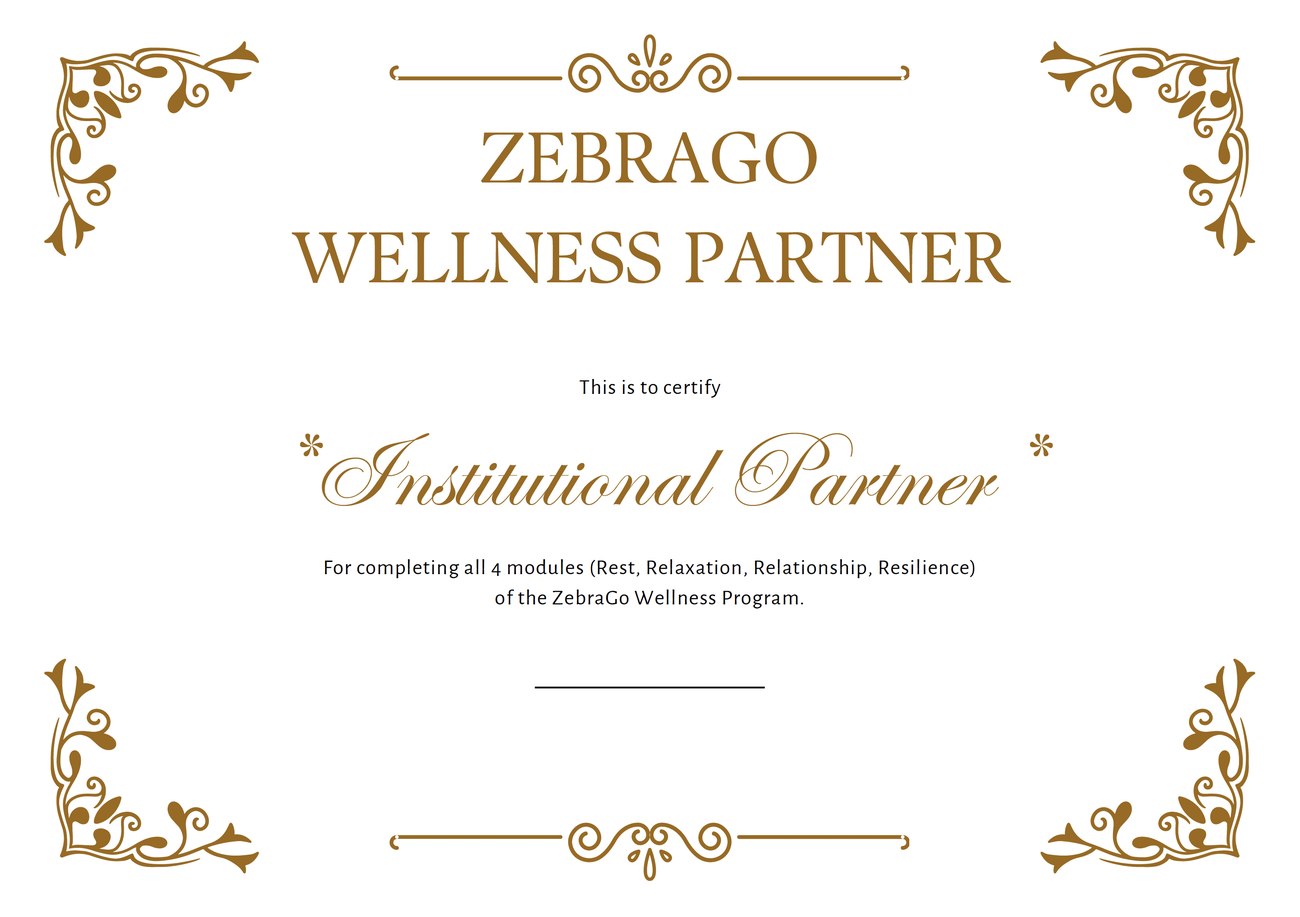
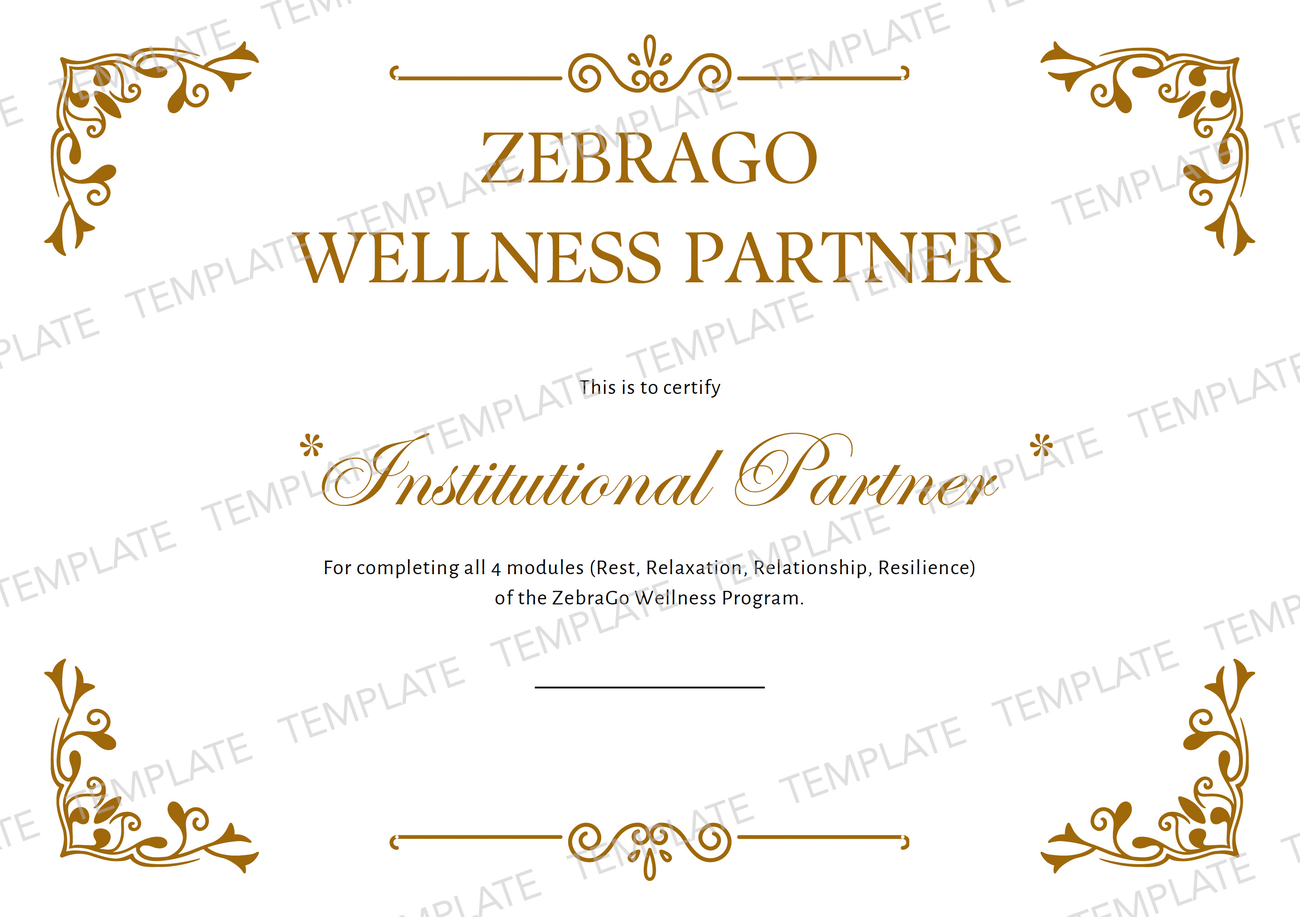
added translation added template watermark to cert

diff --git a/pages/corporate.html b/pages/corporate.html
@@ -95,8 +95,8 @@
                 <div class="container">
                     <div class="individual-hero-content">
                         <h1 class="individual-hero-page-title" data-lang="nav.corporate">企業服務</h1>
-                        <h2 class="individual-hero-title">成為 ZebraGo 企業身心靈夥伴 (Wellness Partner)</h2>
-                        <p class="individual-hero-subtitle">結合流動科技與專業治療，助您實踐 ESG 職業健康指標，打造具抗逆力的幸福職場。</p>
+                        <h2 class="individual-hero-title" data-lang="corporate.hero.title">成為 ZebraGo 企業身心靈夥伴 (Wellness Partner)</h2>
+                        <p class="individual-hero-subtitle" data-lang="corporate.hero.subtitle">結合流動科技與專業治療，助您實踐 ESG 職業健康指標，打造具抗逆力的幸福職場。</p>
                     </div>
                 </div>
             </div>
@@ -105,32 +105,32 @@
         <!-- Section 1: Why Choose Us - ESG and Corporate Sustainability -->
         <section class="individual-why-section">
             <div class="container">
-                <h2 class="section-title">超越福利，更是企業永續的關鍵</h2>
-                <p class="section-intro">在現今的商業環境，員工的身心健康是企業最大的資產。ZebraGo 提供全港首創的流動身心支援，協助企業直接回應港交所 ESG 報告指引 (HKEX ESG Reporting Guide) 中關於「層面 B2：健康與安全」的要求。</p>
+                <h2 class="section-title" data-lang="corporate.why.title">超越福利，更是企業永續的關鍵</h2>
+                <p class="section-intro" data-lang="corporate.why.intro">在現今的商業環境，員工的身心健康是企業最大的資產。ZebraGo 提供全港首創的流動身心支援，協助企業直接回應港交所 ESG 報告指引 (HKEX ESG Reporting Guide) 中關於「層面 B2：健康與安全」的要求。</p>
                 
                 <div class="why-benefits-grid">
                     <div class="why-benefit-card">
                         <div class="why-benefit-icon">
                             <img src="../images/Services/Corporate/gauge.png" alt="滿足 KPI">
                         </div>
-                        <h3 class="why-benefit-title">滿足 KPI B2.3 指標</h3>
-                        <p class="why-benefit-description">透過我們系統化的課程與活動，具體描述及執行職業健康與安全措施。</p>
+                        <h3 class="why-benefit-title" data-lang="corporate.why.kpi.title">滿足 KPI B2.3 指標</h3>
+                        <p class="why-benefit-description" data-lang="corporate.why.kpi.desc">透過我們系統化的課程與活動，具體描述及執行職業健康與安全措施。</p>
                     </div>
                     
                     <div class="why-benefit-card">
                         <div class="why-benefit-icon">
                             <img src="../images/Services/Corporate/businessman.png" alt="提升僱主品牌">
                         </div>
-                        <h3 class="why-benefit-title">提升僱主品牌</h3>
-                        <p class="why-benefit-description">獲得「ZebraGo Wellness Partner」認證，展現企業對員工的承擔。</p>
+                        <h3 class="why-benefit-title" data-lang="corporate.why.brand.title">提升僱主品牌</h3>
+                        <p class="why-benefit-description" data-lang="corporate.why.brand.desc">獲得「ZebraGo Wellness Partner」認證，展現企業對員工的承擔。</p>
                     </div>
                     
                     <div class="why-benefit-card">
                         <div class="why-benefit-icon">
                             <img src="../images/Services/Corporate/back-in-time.png" alt="靈活流動體驗">
                         </div>
-                        <h3 class="why-benefit-title">靈活流動體驗</h3>
-                        <p class="why-benefit-description">無需騰出固定辦公空間，ZebraGo 流動車直接駛達，提供即時支援。</p>
+                        <h3 class="why-benefit-title" data-lang="corporate.why.flexible.title">靈活流動體驗</h3>
+                        <p class="why-benefit-description" data-lang="corporate.why.flexible.desc">無需騰出固定辦公空間，ZebraGo 流動車直接駛達，提供即時支援。</p>
                     </div>
                 </div>
             </div>
@@ -139,8 +139,8 @@
         <!-- Section 2: ZebraGo Corporate Wellness Partner Program -->
         <section class="individual-training-section">
             <div class="container">
-                <h2 class="section-title">模組化認證計劃 —— 4R 全方位支援</h2>
-                <p class="section-intro">企業可根據需求選擇單一模組，或完成全套 4R 系列以獲得年度認證夥伴資格。</p>
+                <h2 class="section-title" data-lang="corporate.program.title">模組化認證計劃 —— 4R 全方位支援</h2>
+                <p class="section-intro" data-lang="corporate.program.intro">企業可根據需求選擇單一模組，或完成全套 4R 系列以獲得年度認證夥伴資格。</p>
                 
                 <div class="training-areas-grid four-columns">
                     <!-- Module 1: Rest -->
@@ -149,9 +149,9 @@
                             <img src="../images/Services/Corporate/corp-1.jpg" alt="休息與充電">
                         </div>
                         <div class="training-area-content">
-                            <h3 class="training-area-title">Module 1: Rest<br>休息與充電</h3>
-                            <p class="training-area-description"><strong>形式：</strong> ZebraGo 流動車體驗</p>
-                            <p class="training-area-description"><strong>內容：</strong> 將流動車停泊於公司樓下，提供「午間快充」服務。員工可於獨立空間內進行 15-20 分鐘的深層休息，暫時抽離工作壓力，恢復精力。</p>
+                            <h3 class="training-area-title"><span data-lang="corporate.program.rest.title">Module 1: Rest</span><br><span data-lang="corporate.program.rest.subtitle">休息與充電</span></h3>
+                            <p class="training-area-description"><strong data-lang="corporate.program.rest.form">形式：</strong> <span data-lang="corporate.program.rest.form.text">ZebraGo 流動車體驗</span></p>
+                            <p class="training-area-description"><strong data-lang="corporate.program.rest.content">內容：</strong> <span data-lang="corporate.program.rest.content.text">將流動車停泊於公司樓下，提供「午間快充」服務。員工可於獨立空間內進行 15-20 分鐘的深層休息，暫時抽離工作壓力，恢復精力。</span></p>
                         </div>
                     </div>
                     
@@ -161,9 +161,9 @@
                             <img src="../images/Services/Corporate/corp-2.jpg" alt="放鬆與減壓">
                         </div>
                         <div class="training-area-content">
-                            <h3 class="training-area-title">Module 2: Relaxation<br>放鬆與減壓</h3>
-                            <p class="training-area-description"><strong>形式：</strong> 沉浸式工作坊 / 流動體驗</p>
-                            <p class="training-area-description"><strong>內容：</strong> 利用車內或會議室的沉浸式投影，進行靜觀 (Mindfulness) 引導、肌肉放鬆練習及呼吸訓練，有效降低職場焦慮。</p>
+                            <h3 class="training-area-title"><span data-lang="corporate.program.relaxation.title">Module 2: Relaxation</span><br><span data-lang="corporate.program.relaxation.subtitle">放鬆與減壓</span></h3>
+                            <p class="training-area-description"><strong data-lang="corporate.program.relaxation.form">形式：</strong> <span data-lang="corporate.program.relaxation.form.text">沉浸式工作坊 / 流動體驗</span></p>
+                            <p class="training-area-description"><strong data-lang="corporate.program.relaxation.content">內容：</strong> <span data-lang="corporate.program.relaxation.content.text">利用車內或會議室的沉浸式投影，進行靜觀 (Mindfulness) 引導、肌肉放鬆練習及呼吸訓練，有效降低職場焦慮。</span></p>
                         </div>
                     </div>
                     
@@ -173,9 +173,9 @@
                             <img src="../images/Services/Corporate/corp-3.jpg" alt="連結與共融">
                         </div>
                         <div class="training-area-content">
-                            <h3 class="training-area-title">Module 3: Relationship<br>連結與共融</h3>
-                            <p class="training-area-description"><strong>形式：</strong> 團隊建立 (Team Building)</p>
-                            <p class="training-area-description"><strong>內容：</strong> 透過「神經多樣性 (Neurodiversity)」體驗活動，讓員工理解不同特質（如 SEN）的同事或客戶，學習非暴力溝通，建立更包容的團隊文化。</p>
+                            <h3 class="training-area-title"><span data-lang="corporate.program.relationship.title">Module 3: Relationship</span><br><span data-lang="corporate.program.relationship.subtitle">連結與共融</span></h3>
+                            <p class="training-area-description"><strong data-lang="corporate.program.relationship.form">形式：</strong> <span data-lang="corporate.program.relationship.form.text">團隊建立 (Team Building)</span></p>
+                            <p class="training-area-description"><strong data-lang="corporate.program.relationship.content">內容：</strong> <span data-lang="corporate.program.relationship.content.text">透過「神經多樣性 (Neurodiversity)」體驗活動，讓員工理解不同特質（如 SEN）的同事或客戶，學習非暴力溝通，建立更包容的團隊文化。</span></p>
                         </div>
                     </div>
                     
@@ -185,9 +185,9 @@
                             <img src="../images/Services/Corporate/corp-4.jpg" alt="抗逆力與成長">
                         </div>
                         <div class="training-area-content">
-                            <h3 class="training-area-title">Module 4: Resilience<br>抗逆力與成長</h3>
-                            <p class="training-area-description"><strong>形式：</strong> 專業培訓講座</p>
-                            <p class="training-area-description"><strong>內容：</strong> 由心理學家或治療師主講，教授情緒急救 (Mental Health First Aid)、壓力管理及危機應對技巧，提升員工面對挑戰的心理韌性。</p>
+                            <h3 class="training-area-title"><span data-lang="corporate.program.resilience.title">Module 4: Resilience</span><br><span data-lang="corporate.program.resilience.subtitle">抗逆力與成長</span></h3>
+                            <p class="training-area-description"><strong data-lang="corporate.program.resilience.form">形式：</strong> <span data-lang="corporate.program.resilience.form.text">專業培訓講座</span></p>
+                            <p class="training-area-description"><strong data-lang="corporate.program.resilience.content">內容：</strong> <span data-lang="corporate.program.resilience.content.text">由心理學家或治療師主講，教授情緒急救 (Mental Health First Aid)、壓力管理及危機應對技巧，提升員工面對挑戰的心理韌性。</span></p>
                         </div>
                     </div>
                 </div>
@@ -197,8 +197,8 @@
         <!-- Section 3: Certification -->
         <section class="individual-formats-section">
             <div class="container">
-                <h2 class="section-title">獲取您的「ZebraGo Wellness Partner」認證</h2>
-                <p class="section-intro">當企業完成上述 4R 模組培訓後，將獲頒發年度「ZebraGo Institutional Partner」證書。</p>
+                <h2 class="section-title" data-lang="corporate.certification.title">獲取您的「ZebraGo Wellness Partner」認證</h2>
+                <p class="section-intro" data-lang="corporate.certification.intro">當企業完成上述 4R 模組培訓後，將獲頒發年度「ZebraGo Institutional Partner」證書。</p>
                 
                 <div class="certificate-image-container">
                     <img src="../images/Services/Corporate/cert.jpg" alt="ZebraGo Wellness Partner 證書" class="certificate-image">
@@ -210,8 +210,8 @@
                             <div class="service-format-icon">
                                 <img src="../images/Services/Corporate/certificate.png" alt="證書用途">
                             </div>
-                            <h3 class="service-format-title">證書用途</h3>
-                            <p class="service-format-description">可用於企業年報、ESG 報告及網站展示。</p>
+                            <h3 class="service-format-title" data-lang="corporate.certification.usage.title">證書用途</h3>
+                            <p class="service-format-description" data-lang="corporate.certification.usage.desc">可用於企業年報、ESG 報告及網站展示。</p>
                         </div>
                     </div>
                     
@@ -220,8 +220,8 @@
                             <div class="service-format-icon">
                                 <img src="../images/Services/Corporate/partners.png" alt="夥伴權益">
                             </div>
-                            <h3 class="service-format-title">夥伴權益</h3>
-                            <p class="service-format-description">優先預約 ZebraGo 流動車服務、獲邀出席年度夥伴峰會 (Partner Summit)，與業界交流健康職場心得。</p>
+                            <h3 class="service-format-title" data-lang="corporate.certification.benefits.title">夥伴權益</h3>
+                            <p class="service-format-description" data-lang="corporate.certification.benefits.desc">優先預約 ZebraGo 流動車服務、獲邀出席年度夥伴峰會 (Partner Summit)，與業界交流健康職場心得。</p>
                         </div>
                     </div>
                 </div>
@@ -233,8 +233,8 @@
             <div class="container">
                 <div class="individual-support-wrapper">
                     <div class="individual-support-content">
-                        <h2 class="section-title">商業與社會價值的共贏</h2>
-                        <p class="individual-support-intro">除了照顧內部員工，您的參與亦能支持 ZebraGo 服務更多基層學童。</p>
+                        <h2 class="section-title" data-lang="corporate.csr.title">商業與社會價值的共贏</h2>
+                        <p class="individual-support-intro" data-lang="corporate.csr.intro">除了照顧內部員工，您的參與亦能支持 ZebraGo 服務更多基層學童。</p>
                         
                         <div class="individual-support-items">
                             <div class="individual-support-item">
@@ -242,8 +242,8 @@
                                     <img src="../images/Services/Corporate/donation.png" alt="配對贊助">
                                 </div>
                                 <div class="individual-support-item-text">
-                                    <h4 class="individual-support-item-title">配對贊助</h4>
-                                    <p class="individual-support-item-description">企業每完成一個模組，部分收益將支持我們為一間資源匱乏的學校提供免費服務。</p>
+                                    <h4 class="individual-support-item-title" data-lang="corporate.csr.sponsor.title">配對贊助</h4>
+                                    <p class="individual-support-item-description" data-lang="corporate.csr.sponsor.desc">企業每完成一個模組，部分收益將支持我們為一間資源匱乏的學校提供免費服務。</p>
                                 </div>
                             </div>
                             
@@ -252,8 +252,8 @@
                                     <img src="../images/Services/Corporate/hand-up.jpg" alt="企業義工">
                                 </div>
                                 <div class="individual-support-item-text">
-                                    <h4 class="individual-support-item-title">企業義工</h4>
-                                    <p class="individual-support-item-description">安排員工參與我們的社區共融活動，身體力行回饋社會。</p>
+                                    <h4 class="individual-support-item-title" data-lang="corporate.csr.volunteer.title">企業義工</h4>
+                                    <p class="individual-support-item-description" data-lang="corporate.csr.volunteer.desc">安排員工參與我們的社區共融活動，身體力行回饋社會。</p>
                                 </div>
                             </div>
                         </div>
@@ -269,7 +269,7 @@
         <!-- CTA Section -->
         <section class="individual-cta-section">
             <div class="container">
-                <a href="contact.html" class="individual-cta-button">查詢/預約服務</a>
+                <a href="contact.html" class="individual-cta-button" data-lang="corporate.cta.button">查詢/預約服務</a>
             </div>
         </section>
     </main>

diff --git a/js/language.js b/js/language.js
@@ -386,7 +386,58 @@ const translations = {
         'school.process.step3.desc': 'ZebraGo 流動車及專業團隊按時到校執行。',
         'school.process.step4.title': '成效評估',
         'school.process.step4.desc': '提供活動報告及學生反饋。',
-        'school.cta.button': '查詢/預約服務'
+        'school.cta.button': '查詢/預約服務',
+        
+        // Corporate Services Page
+        'corporate.hero.title': '成為 ZebraGo 企業身心靈夥伴 (Wellness Partner)',
+        'corporate.hero.subtitle': '結合流動科技與專業治療，助您實踐 ESG 職業健康指標，打造具抗逆力的幸福職場。',
+        'corporate.why.title': '超越福利，更是企業永續的關鍵',
+        'corporate.why.intro': '在現今的商業環境，員工的身心健康是企業最大的資產。ZebraGo 提供全港首創的流動身心支援，協助企業直接回應港交所 ESG 報告指引 (HKEX ESG Reporting Guide) 中關於「層面 B2：健康與安全」的要求。',
+        'corporate.why.kpi.title': '滿足 KPI B2.3 指標',
+        'corporate.why.kpi.desc': '透過我們系統化的課程與活動，具體描述及執行職業健康與安全措施。',
+        'corporate.why.brand.title': '提升僱主品牌',
+        'corporate.why.brand.desc': '獲得「ZebraGo Wellness Partner」認證，展現企業對員工的承擔。',
+        'corporate.why.flexible.title': '靈活流動體驗',
+        'corporate.why.flexible.desc': '無需騰出固定辦公空間，ZebraGo 流動車直接駛達，提供即時支援。',
+        'corporate.program.title': '模組化認證計劃 —— 4R 全方位支援',
+        'corporate.program.intro': '企業可根據需求選擇單一模組，或完成全套 4R 系列以獲得年度認證夥伴資格。',
+        'corporate.program.rest.title': 'Module 1: Rest',
+        'corporate.program.rest.subtitle': '休息與充電',
+        'corporate.program.rest.form': '形式：',
+        'corporate.program.rest.form.text': 'ZebraGo 流動車體驗',
+        'corporate.program.rest.content': '內容：',
+        'corporate.program.rest.content.text': '將流動車停泊於公司樓下，提供「午間快充」服務。員工可於獨立空間內進行 15-20 分鐘的深層休息，暫時抽離工作壓力，恢復精力。',
+        'corporate.program.relaxation.title': 'Module 2: Relaxation',
+        'corporate.program.relaxation.subtitle': '放鬆與減壓',
+        'corporate.program.relaxation.form': '形式：',
+        'corporate.program.relaxation.form.text': '沉浸式工作坊 / 流動體驗',
+        'corporate.program.relaxation.content': '內容：',
+        'corporate.program.relaxation.content.text': '利用車內或會議室的沉浸式投影，進行靜觀 (Mindfulness) 引導、肌肉放鬆練習及呼吸訓練，有效降低職場焦慮。',
+        'corporate.program.relationship.title': 'Module 3: Relationship',
+        'corporate.program.relationship.subtitle': '連結與共融',
+        'corporate.program.relationship.form': '形式：',
+        'corporate.program.relationship.form.text': '團隊建立 (Team Building)',
+        'corporate.program.relationship.content': '內容：',
+        'corporate.program.relationship.content.text': '透過「神經多樣性 (Neurodiversity)」體驗活動，讓員工理解不同特質（如 SEN）的同事或客戶，學習非暴力溝通，建立更包容的團隊文化。',
+        'corporate.program.resilience.title': 'Module 4: Resilience',
+        'corporate.program.resilience.subtitle': '抗逆力與成長',
+        'corporate.program.resilience.form': '形式：',
+        'corporate.program.resilience.form.text': '專業培訓講座',
+        'corporate.program.resilience.content': '內容：',
+        'corporate.program.resilience.content.text': '由心理學家或治療師主講，教授情緒急救 (Mental Health First Aid)、壓力管理及危機應對技巧，提升員工面對挑戰的心理韌性。',
+        'corporate.certification.title': '獲取您的「ZebraGo Wellness Partner」認證',
+        'corporate.certification.intro': '當企業完成上述 4R 模組培訓後，將獲頒發年度「ZebraGo Institutional Partner」證書。',
+        'corporate.certification.usage.title': '證書用途',
+        'corporate.certification.usage.desc': '可用於企業年報、ESG 報告及網站展示。',
+        'corporate.certification.benefits.title': '夥伴權益',
+        'corporate.certification.benefits.desc': '優先預約 ZebraGo 流動車服務、獲邀出席年度夥伴峰會 (Partner Summit)，與業界交流健康職場心得。',
+        'corporate.csr.title': '商業與社會價值的共贏',
+        'corporate.csr.intro': '除了照顧內部員工，您的參與亦能支持 ZebraGo 服務更多基層學童。',
+        'corporate.csr.sponsor.title': '配對贊助',
+        'corporate.csr.sponsor.desc': '企業每完成一個模組，部分收益將支持我們為一間資源匱乏的學校提供免費服務。',
+        'corporate.csr.volunteer.title': '企業義工',
+        'corporate.csr.volunteer.desc': '安排員工參與我們的社區共融活動，身體力行回饋社會。',
+        'corporate.cta.button': '查詢/預約服務'
     },
     'zh-CN': {
         // Page Titles (for browser tab)
@@ -772,7 +823,58 @@ const translations = {
         'school.process.step3.desc': 'ZebraGo 流动车及专业团队按时到校执行。',
         'school.process.step4.title': '成效评估',
         'school.process.step4.desc': '提供活动报告及学生反馈。',
-        'school.cta.button': '查询/预约服务'
+        'school.cta.button': '查询/预约服务',
+        
+        // Corporate Services Page
+        'corporate.hero.title': '成为 ZebraGo 企业身心灵伙伴 (Wellness Partner)',
+        'corporate.hero.subtitle': '结合流动科技与专业治疗，助您实践 ESG 职业健康指标，打造具抗逆力的幸福职场。',
+        'corporate.why.title': '超越福利，更是企业永续的关键',
+        'corporate.why.intro': '在现今的商业环境，员工的身心健康是企业最大的资产。ZebraGo 提供全港首创的流动身心支援，协助企业直接回应港交所 ESG 报告指引 (HKEX ESG Reporting Guide) 中关于「层面 B2：健康与安全」的要求。',
+        'corporate.why.kpi.title': '满足 KPI B2.3 指标',
+        'corporate.why.kpi.desc': '透过我们系统化的课程与活动，具体描述及执行职业健康与安全措施。',
+        'corporate.why.brand.title': '提升雇主品牌',
+        'corporate.why.brand.desc': '获得「ZebraGo Wellness Partner」认证，展现企业对员工的承担。',
+        'corporate.why.flexible.title': '灵活流动体验',
+        'corporate.why.flexible.desc': '无需腾出固定办公空间，ZebraGo 流动车直接驶达，提供即时支援。',
+        'corporate.program.title': '模块化认证计划 —— 4R 全方位支援',
+        'corporate.program.intro': '企业可根据需求选择单一模块，或完成全套 4R 系列以获得年度认证伙伴资格。',
+        'corporate.program.rest.title': 'Module 1: Rest',
+        'corporate.program.rest.subtitle': '休息与充电',
+        'corporate.program.rest.form': '形式：',
+        'corporate.program.rest.form.text': 'ZebraGo 流动车体验',
+        'corporate.program.rest.content': '内容：',
+        'corporate.program.rest.content.text': '将流动车停泊于公司楼下，提供「午间快充」服务。员工可于独立空间内进行 15-20 分钟的深层休息，暂时抽离工作压力，恢复精力。',
+        'corporate.program.relaxation.title': 'Module 2: Relaxation',
+        'corporate.program.relaxation.subtitle': '放松与减压',
+        'corporate.program.relaxation.form': '形式：',
+        'corporate.program.relaxation.form.text': '沉浸式工作坊 / 流动体验',
+        'corporate.program.relaxation.content': '内容：',
+        'corporate.program.relaxation.content.text': '利用车内或会议室的沉浸式投影，进行静观 (Mindfulness) 引导、肌肉放松练习及呼吸训练，有效降低职场焦虑。',
+        'corporate.program.relationship.title': 'Module 3: Relationship',
+        'corporate.program.relationship.subtitle': '连结与共融',
+        'corporate.program.relationship.form': '形式：',
+        'corporate.program.relationship.form.text': '团队建立 (Team Building)',
+        'corporate.program.relationship.content': '内容：',
+        'corporate.program.relationship.content.text': '透过「神经多样性 (Neurodiversity)」体验活动，让员工理解不同特质（如 SEN）的同事或客户，学习非暴力沟通，建立更包容的团队文化。',
+        'corporate.program.resilience.title': 'Module 4: Resilience',
+        'corporate.program.resilience.subtitle': '抗逆力与成长',
+        'corporate.program.resilience.form': '形式：',
+        'corporate.program.resilience.form.text': '专业培训讲座',
+        'corporate.program.resilience.content': '内容：',
+        'corporate.program.resilience.content.text': '由心理学家或治疗师主讲，教授情绪急救 (Mental Health First Aid)、压力管理及危机应对技巧，提升员工面对挑战的心理韧性。',
+        'corporate.certification.title': '获取您的「ZebraGo Wellness Partner」认证',
+        'corporate.certification.intro': '当企业完成上述 4R 模块培训后，将获颁发年度「ZebraGo Institutional Partner」证书。',
+        'corporate.certification.usage.title': '证书用途',
+        'corporate.certification.usage.desc': '可用于企业年报、ESG 报告及网站展示。',
+        'corporate.certification.benefits.title': '伙伴权益',
+        'corporate.certification.benefits.desc': '优先预约 ZebraGo 流动车服务、获邀出席年度伙伴峰会 (Partner Summit)，与业界交流健康职场心得。',
+        'corporate.csr.title': '商业与社会价值的共赢',
+        'corporate.csr.intro': '除了照顾内部员工，您的参与亦能支持 ZebraGo 服务更多基层学童。',
+        'corporate.csr.sponsor.title': '配对赞助',
+        'corporate.csr.sponsor.desc': '企业每完成一个模块，部分收益将支持我们为一间资源匮乏的学校提供免费服务。',
+        'corporate.csr.volunteer.title': '企业义工',
+        'corporate.csr.volunteer.desc': '安排员工参与我们的社区共融活动，身体力行回馈社会。',
+        'corporate.cta.button': '查询/预约服务'
     },
     'en': {
         // Page Titles (for browser tab)
@@ -1158,7 +1260,58 @@ const translations = {
         'school.process.step3.desc': 'ZebraGo mobile vehicle and professional team execute on-site as scheduled.',
         'school.process.step4.title': 'Effectiveness Evaluation',
         'school.process.step4.desc': 'Provide activity reports and student feedback.',
-        'school.cta.button': 'Inquiry/Book Service'
+        'school.cta.button': 'Inquiry/Book Service',
+        
+        // Corporate Services Page
+        'corporate.hero.title': 'Become a ZebraGo Corporate Wellness Partner',
+        'corporate.hero.subtitle': 'Combining mobile technology with professional therapy to help you achieve ESG occupational health indicators and create a resilient and happy workplace.',
+        'corporate.why.title': 'Beyond Benefits — The Key to Corporate Sustainability',
+        'corporate.why.intro': 'In today\'s business environment, employees\' physical and mental health is a company\'s greatest asset. ZebraGo provides Hong Kong\'s first mobile physical and mental support, helping companies directly respond to the requirements of "Aspect B2: Health and Safety" in the HKEX ESG Reporting Guide.',
+        'corporate.why.kpi.title': 'Meet KPI B2.3 Indicators',
+        'corporate.why.kpi.desc': 'Through our systematic courses and activities, specifically describe and implement occupational health and safety measures.',
+        'corporate.why.brand.title': 'Enhance Employer Brand',
+        'corporate.why.brand.desc': 'Obtain "ZebraGo Wellness Partner" certification, demonstrating the company\'s commitment to employees.',
+        'corporate.why.flexible.title': 'Flexible Mobile Experience',
+        'corporate.why.flexible.desc': 'No need to allocate fixed office space. The ZebraGo mobile vehicle arrives directly, providing immediate support.',
+        'corporate.program.title': 'Modular Certification Program — 4R Comprehensive Support',
+        'corporate.program.intro': 'Enterprises can choose a single module according to their needs, or complete the full set of 4R series to obtain annual certification partner qualifications.',
+        'corporate.program.rest.title': 'Module 1: Rest',
+        'corporate.program.rest.subtitle': 'Rest and Recharge',
+        'corporate.program.rest.form': 'Format:',
+        'corporate.program.rest.form.text': 'ZebraGo Mobile Vehicle Experience',
+        'corporate.program.rest.content': 'Content:',
+        'corporate.program.rest.content.text': 'The mobile vehicle is parked downstairs at the company, providing "midday quick charge" service. Employees can take 15-20 minutes of deep rest in a private space, temporarily disengaging from work pressure and restoring energy.',
+        'corporate.program.relaxation.title': 'Module 2: Relaxation',
+        'corporate.program.relaxation.subtitle': 'Relaxation and Stress Reduction',
+        'corporate.program.relaxation.form': 'Format:',
+        'corporate.program.relaxation.form.text': 'Immersive Workshop / Mobile Experience',
+        'corporate.program.relaxation.content': 'Content:',
+        'corporate.program.relaxation.content.text': 'Utilizing immersive projections inside the vehicle or meeting rooms, conducting Mindfulness guidance, muscle relaxation exercises, and breathing training to effectively reduce workplace anxiety.',
+        'corporate.program.relationship.title': 'Module 3: Relationship',
+        'corporate.program.relationship.subtitle': 'Connection and Inclusion',
+        'corporate.program.relationship.form': 'Format:',
+        'corporate.program.relationship.form.text': 'Team Building',
+        'corporate.program.relationship.content': 'Content:',
+        'corporate.program.relationship.content.text': 'Through "Neurodiversity" experiential activities, employees learn to understand colleagues or clients with different characteristics (such as SEN), practice non-violent communication, and build a more inclusive team culture.',
+        'corporate.program.resilience.title': 'Module 4: Resilience',
+        'corporate.program.resilience.subtitle': 'Resilience and Growth',
+        'corporate.program.resilience.form': 'Format:',
+        'corporate.program.resilience.form.text': 'Professional Training Lecture',
+        'corporate.program.resilience.content': 'Content:',
+        'corporate.program.resilience.content.text': 'Led by psychologists or therapists, teaching Mental Health First Aid, stress management, and crisis response skills to enhance employees\' psychological resilience in facing challenges.',
+        'corporate.certification.title': 'Obtain Your "ZebraGo Wellness Partner" Certification',
+        'corporate.certification.intro': 'After enterprises complete the above 4R module training, they will be awarded the annual "ZebraGo Institutional Partner" certificate.',
+        'corporate.certification.usage.title': 'Certificate Usage',
+        'corporate.certification.usage.desc': 'Can be used for corporate annual reports, ESG reports, and website display.',
+        'corporate.certification.benefits.title': 'Partner Benefits',
+        'corporate.certification.benefits.desc': 'Priority booking for ZebraGo mobile vehicle services, invited to attend the annual Partner Summit, and exchange insights on healthy workplaces with industry peers.',
+        'corporate.csr.title': 'Win-Win for Business and Social Value',
+        'corporate.csr.intro': 'In addition to caring for internal employees, your participation can also support ZebraGo in serving more underprivileged students.',
+        'corporate.csr.sponsor.title': 'Matching Sponsorship',
+        'corporate.csr.sponsor.desc': 'For each module completed by the enterprise, a portion of the proceeds will support us in providing free services to a resource-deprived school.',
+        'corporate.csr.volunteer.title': 'Corporate Volunteering',
+        'corporate.csr.volunteer.desc': 'Arrange employees to participate in our community inclusion activities, giving back to society through action.',
+        'corporate.cta.button': 'Inquiry/Book Service'
     }
 };
 
